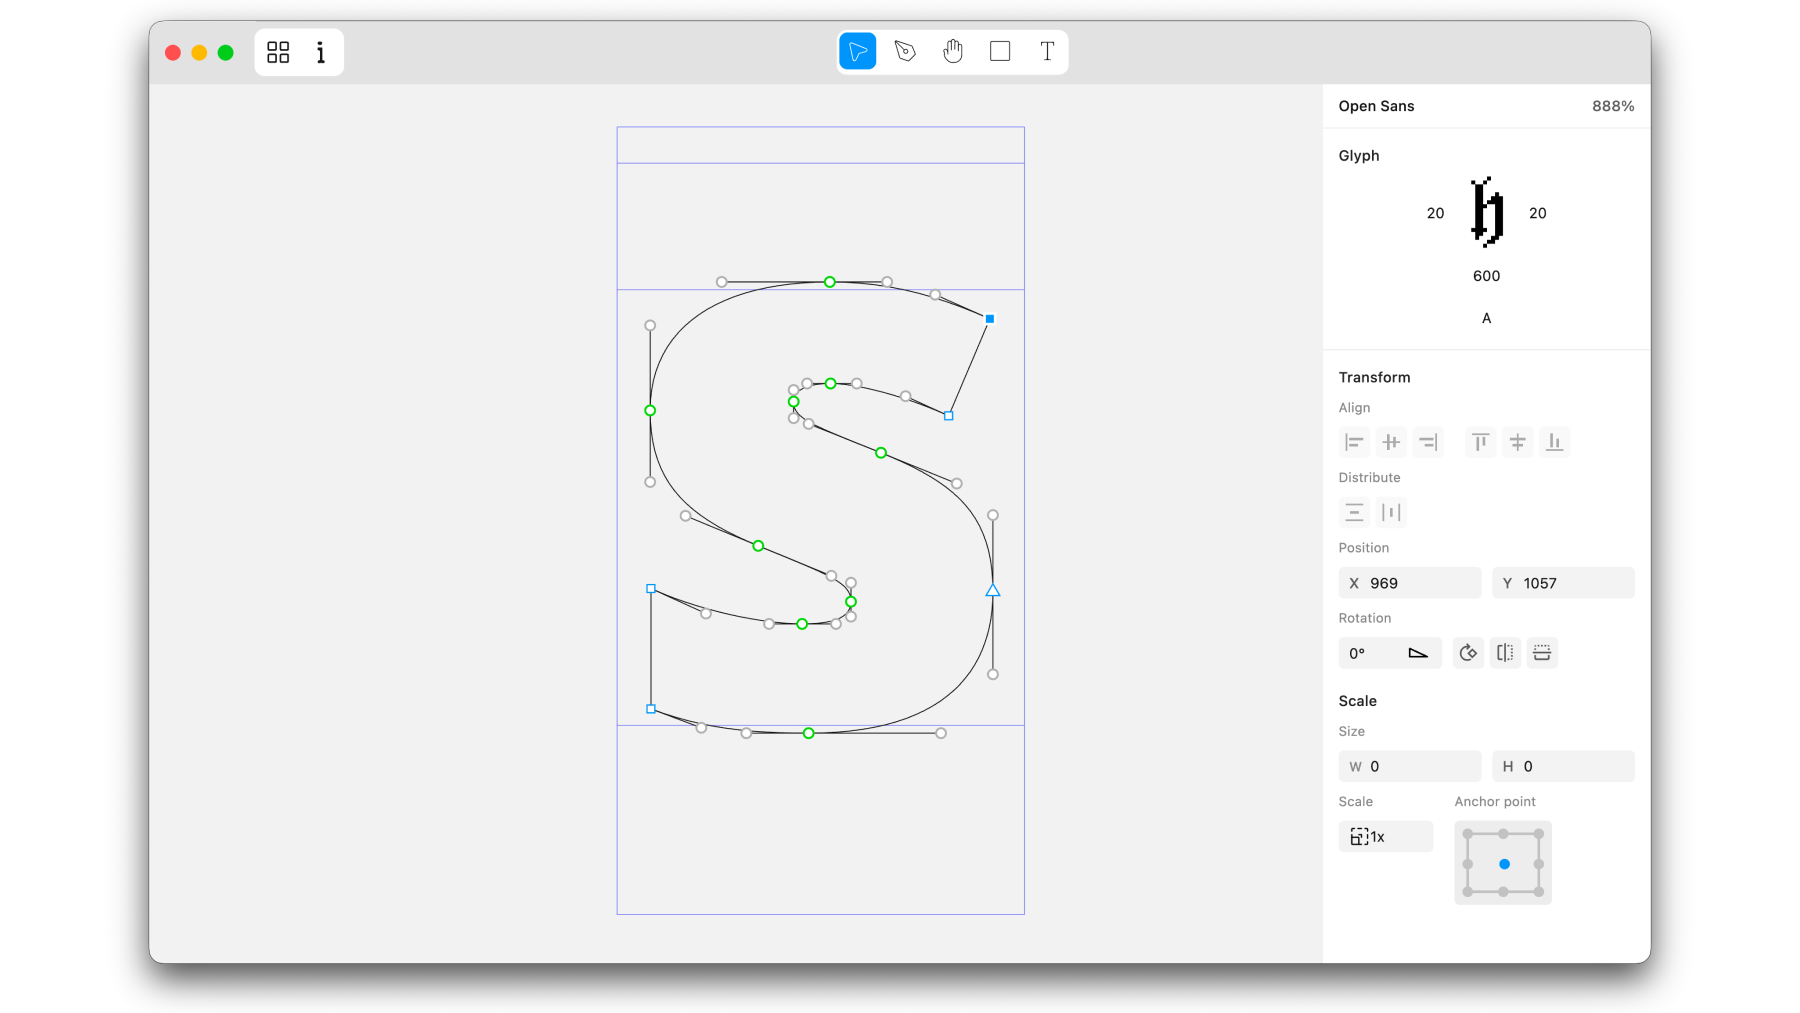
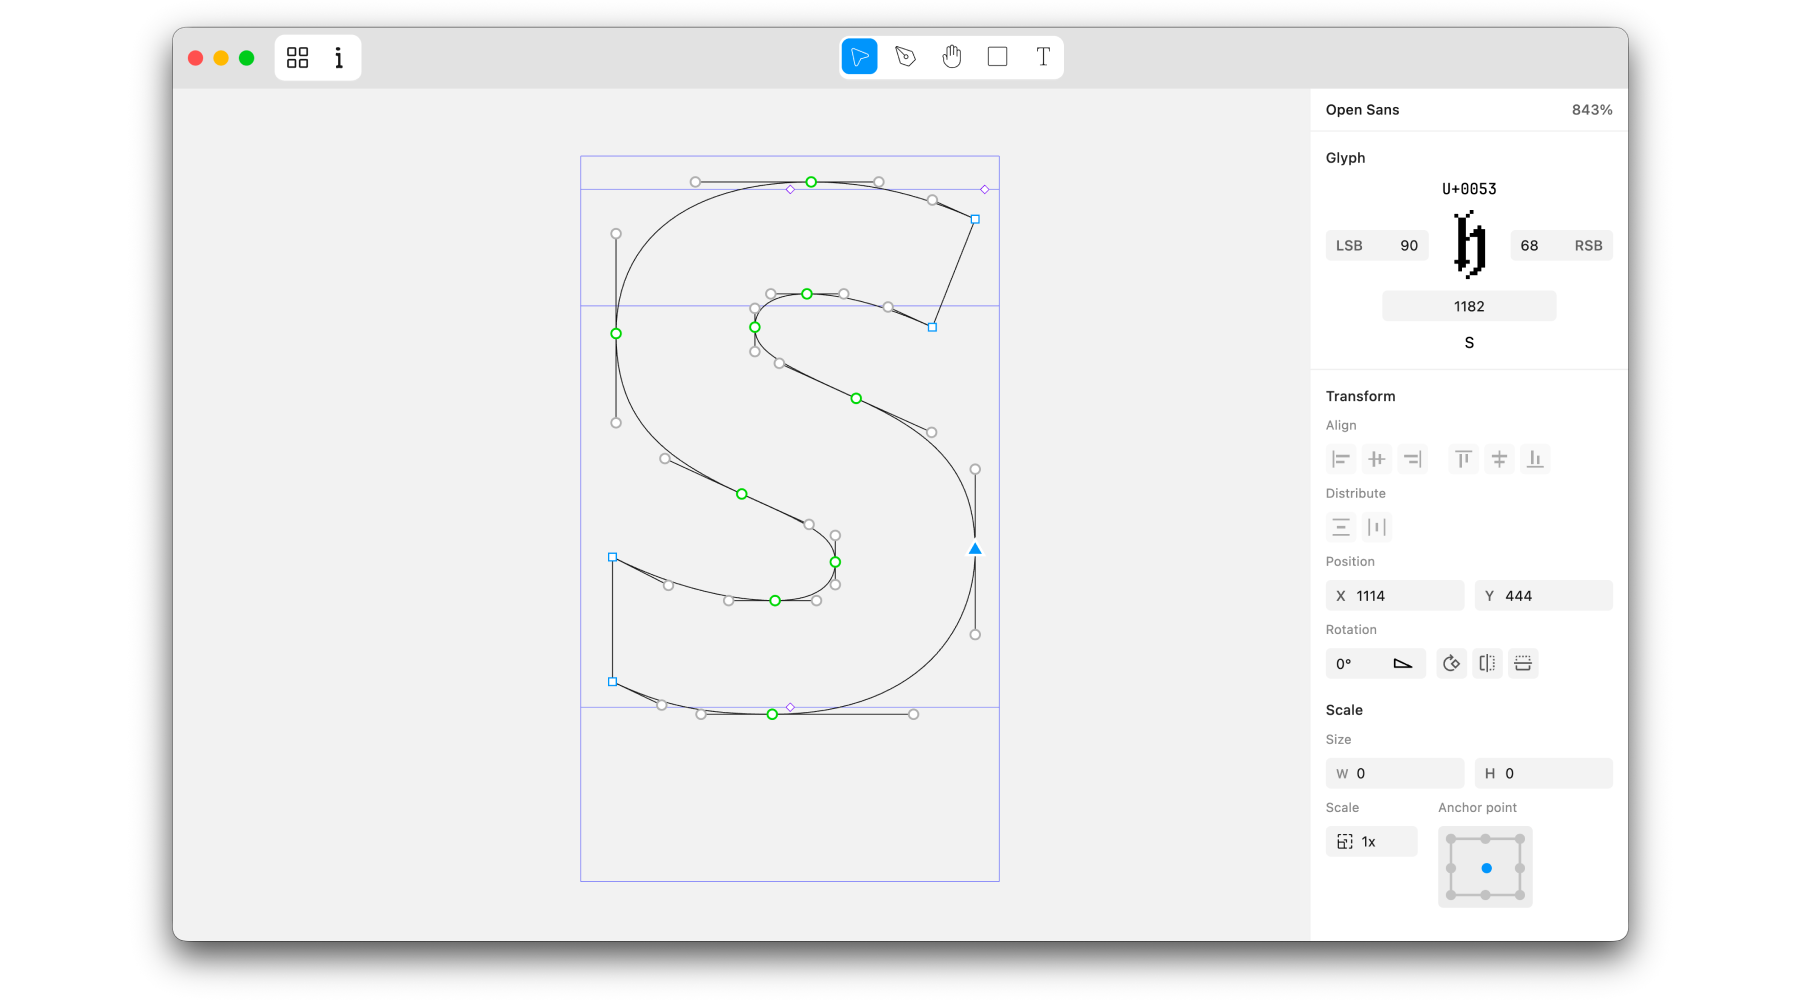
even better screenshots

diff --git a/src/app/components/ImageCarousel.tsx b/src/app/components/ImageCarousel.tsx
@@ -5,9 +5,9 @@ import { useState, useEffect, useRef, useCallback } from "react";
 import { Tabs } from "@base-ui/react/tabs";
 
 const IMAGES = [
-  { src: "/new-grid.png", alt: "Grid view", label: "Grid View", description: "Browse and manage your full glyph set" },
-  { src: "/new-s.png", alt: "Editor view", label: "Bezier Editor", description: "Edit outlines with precision bezier controls" },
-  { src: "/fill.png", alt: "Fill view", label: "Pixel Preview", description: "Preview glyphs at low resolution" },
+  { src: "/grid.png", alt: "Grid view", label: "Grid View", description: "Browse and manage your full glyph set" },
+  { src: "/editor.png", alt: "Editor view", label: "Bezier Editor", description: "Edit outlines with precision bezier controls" },
+  { src: "/text-mode.png", alt: "Text mode", label: "Text Mode", description: "Preview glyphs at low resolution" },
 ];
 
 const AUTOPLAY_INTERVAL = 7000;
